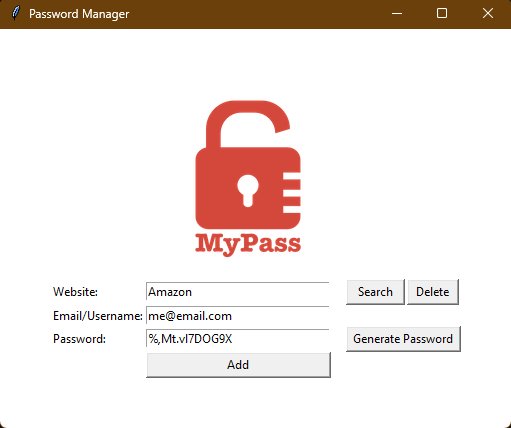
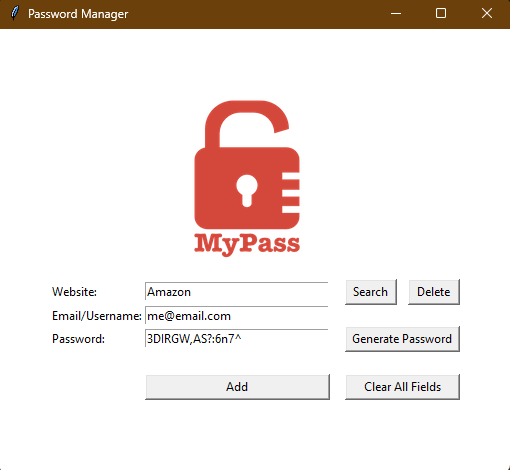
Add button to clear all fields

diff --git a/main.py b/main.py
@@ -110,10 +110,18 @@ def save():
                 password_entry.delete(0, END)
 
 
+# ---------------------------- CLEAR FIELDS --------------------------- #
+def clear():
+    website_entry.delete(0, END)
+    email_entry.delete(0, END)
+    password_entry.delete(0, END)
+
+
 # ------------------------------ UI SETUP ----------------------------- #
 window = Tk()
 window.title("Password Manager")
 window.config(padx=50, pady=50, bg='white')
+window.rowconfigure(4, minsize=70)
 
 # Padlock image
 canvas = Canvas(width=200, height=200, bg='white', highlightthickness=0)
@@ -131,12 +139,12 @@ website_entry.grid(column=1, row=1, sticky=W)
 website_entry.focus()
 
 # Search button
-generate_button = Button(text="Search", command=search, width=7)
+generate_button = Button(text="Search", command=search, width=6)
 generate_button.grid(column=2, row=1, sticky=W)
 
 # Delete button
 delete_button = Button(text="Delete", command=delete, width=6)
-delete_button.grid(column=3, row=1, sticky=W)
+delete_button.grid(column=3, row=1, sticky=E)
 
 # Email/username label
 email_label = Label(text='Email/Username:', bg='white')
@@ -162,5 +170,9 @@ generate_button.grid(column=2, row=3, columnspan=2, stick=W)
 # Add password button
 add_button = Button(text="Add", width=25, command=save)
 add_button.grid(column=1, row=4, sticky=W)
+
+# Clear fields button
+clear_button = Button(text="Clear All Fields", width=15, command=clear)
+clear_button.grid(column=2, row=4, columnspan=2, stick=W)
 
 window.mainloop()
